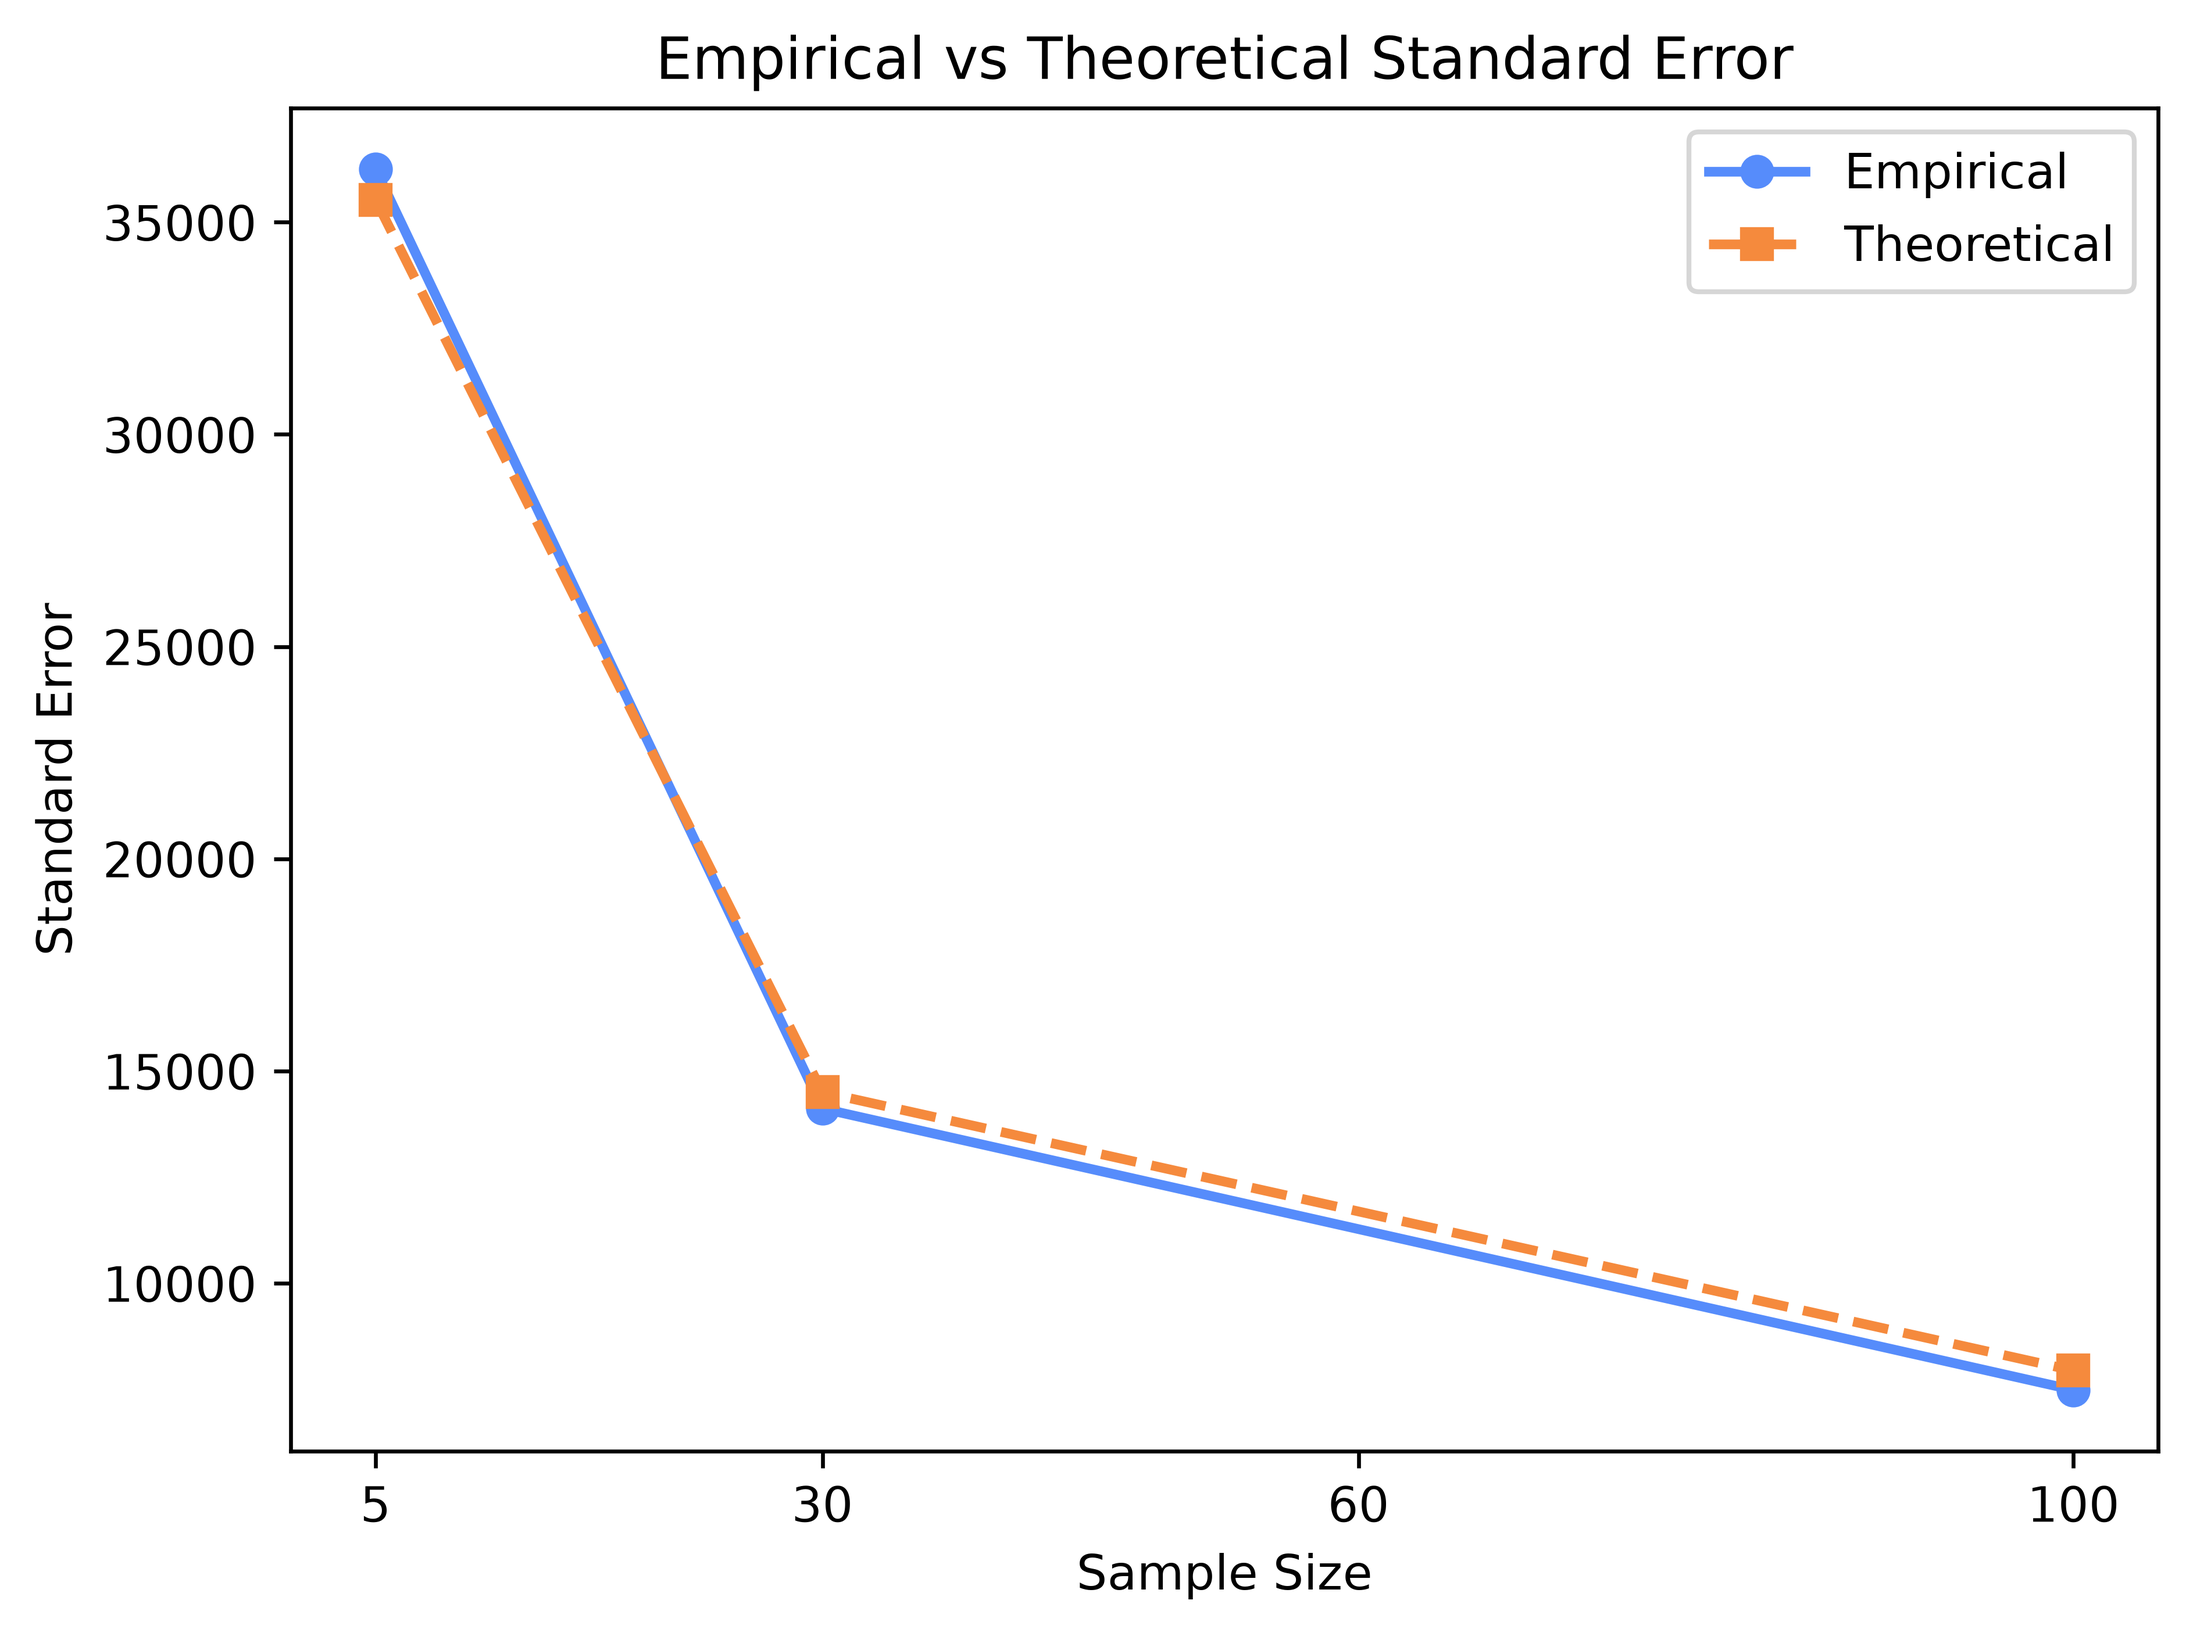
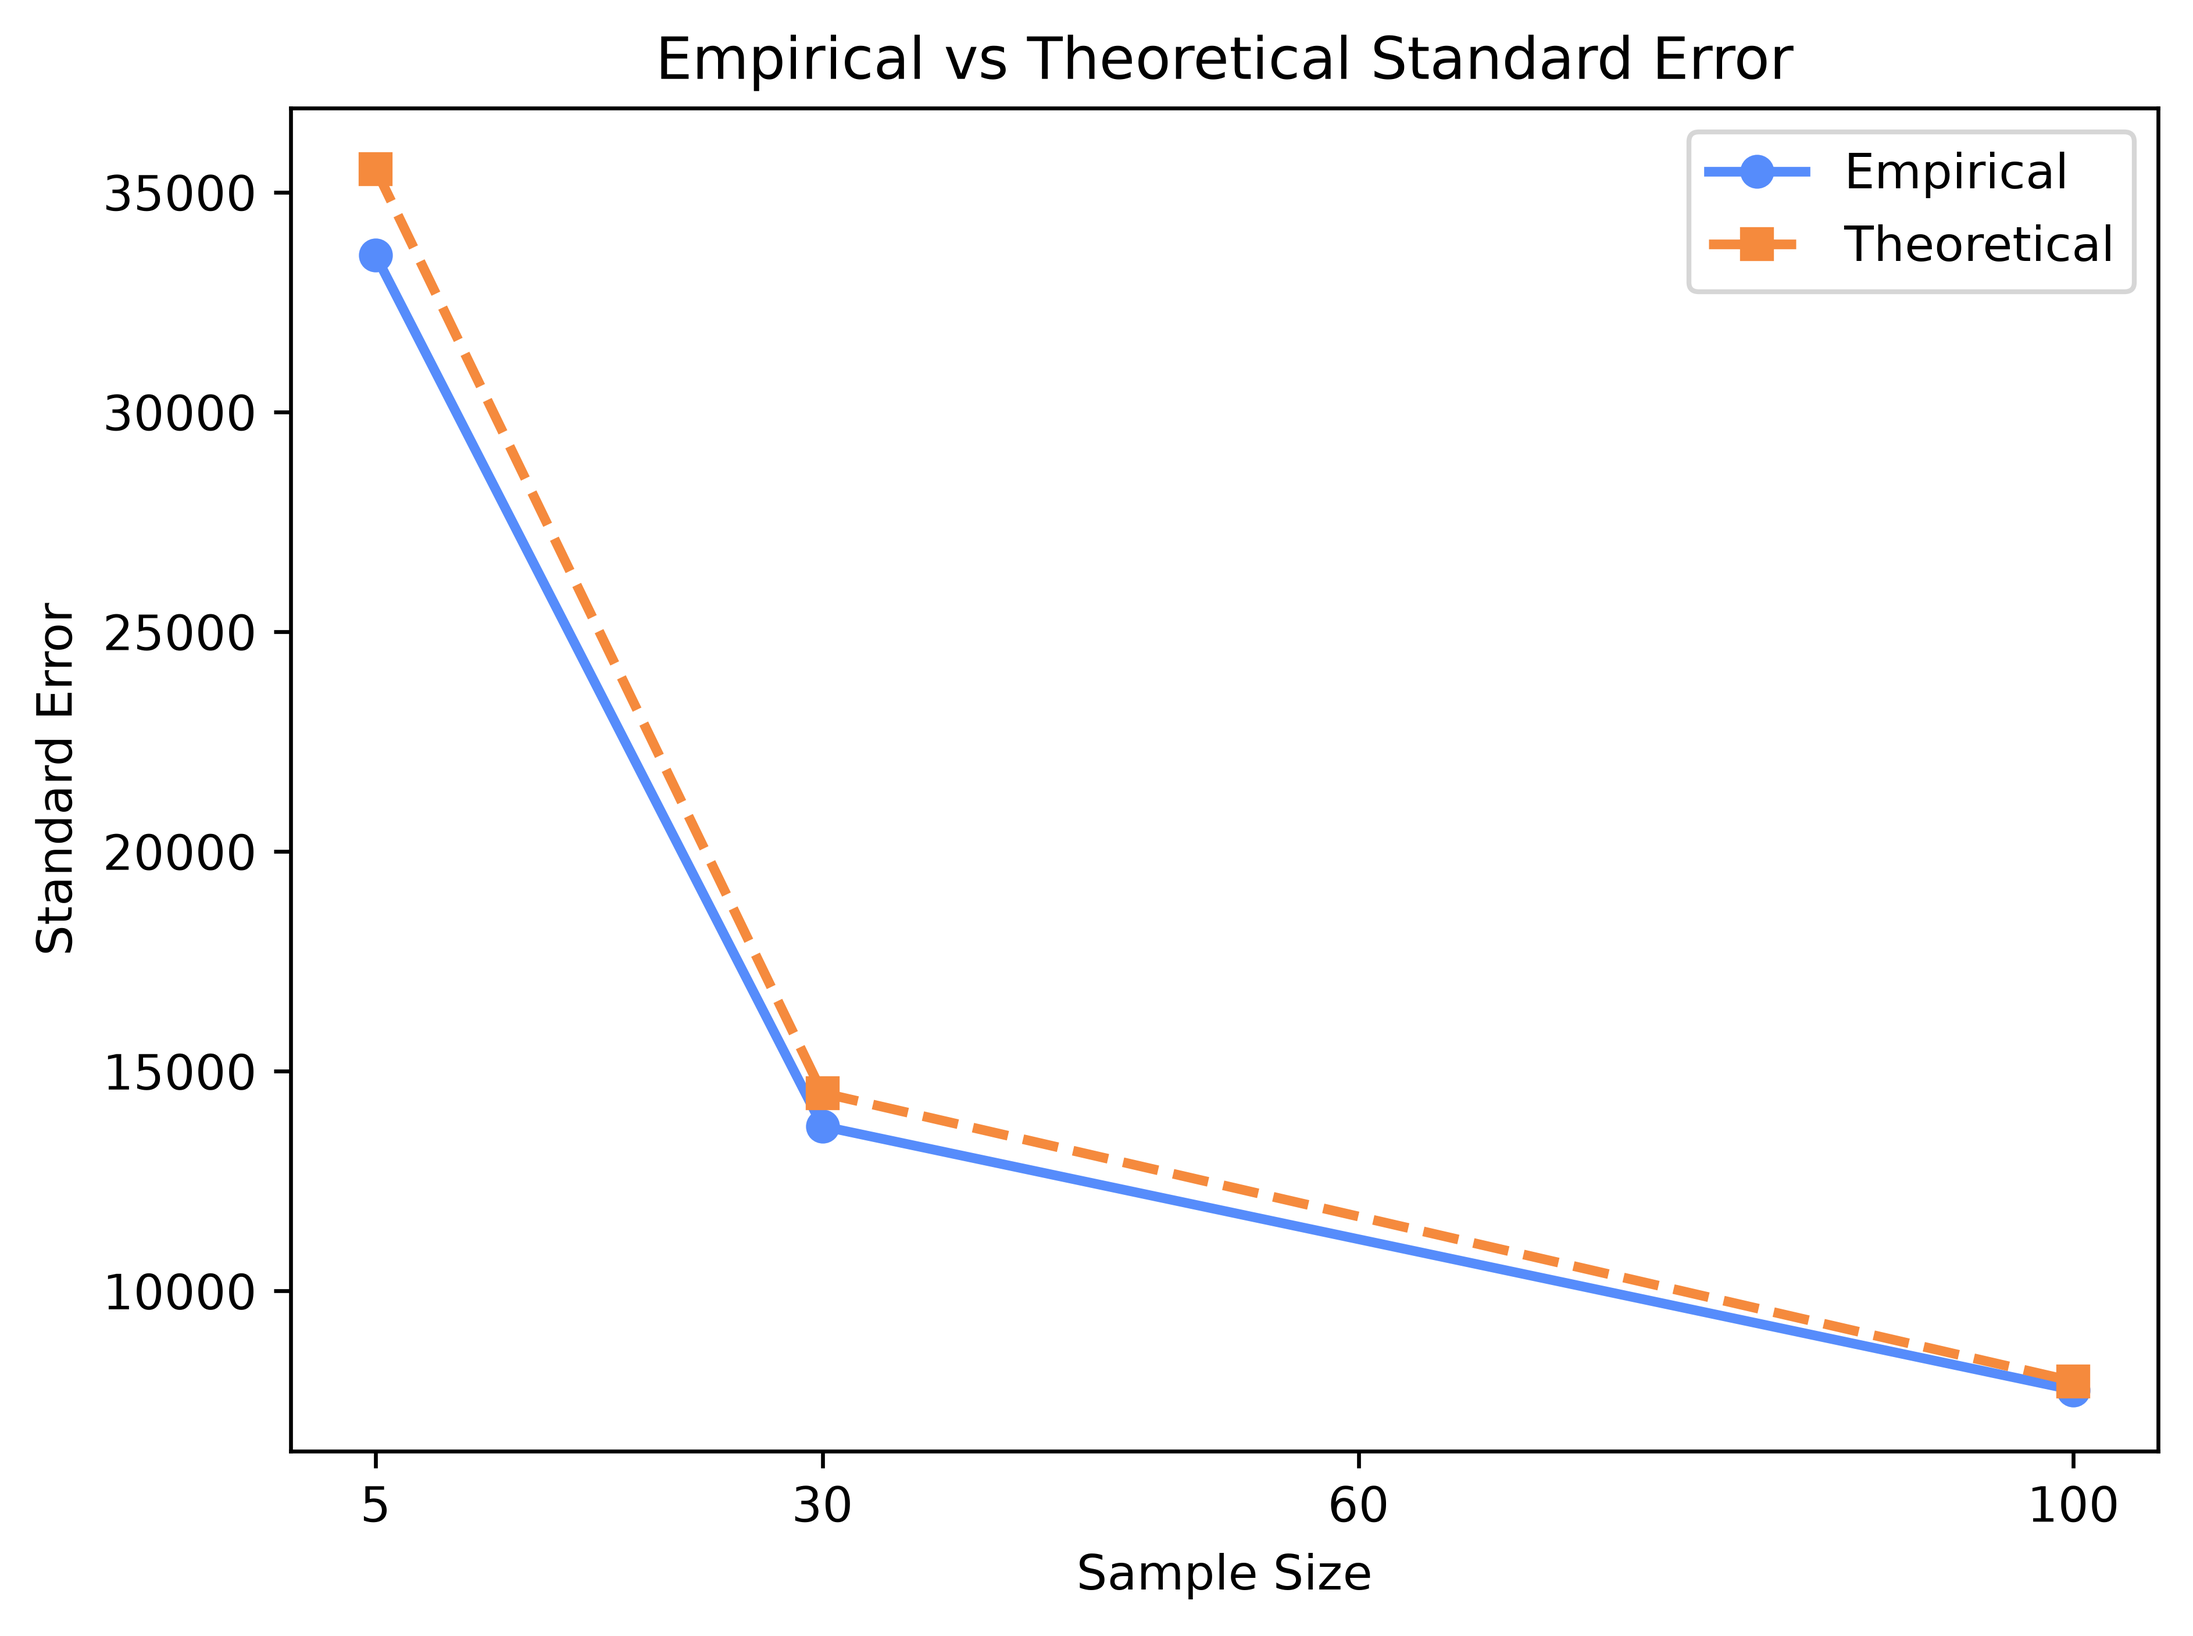
Add bootstrap analysis to 02_data_and_sampling_distributions.ipynb
- Implement bootstrap resampling for estimating the sampling distribution of the median `SalePrice` (10,000 resamples).
- Compute and report bootstrap bias, standard error, and 95% confidence interval for the median.
- Add visualization of the bootstrap distribution with publication-quality settings.
- Update README.md to include bootstrap methodology, results, and the new figure.

diff --git a/README.md b/README.md
@@ -6,7 +6,7 @@ A multi-notebook project on statistics and machine learning, built around the Am
 
 ## Project Status
 
-**Work in progress.** This project is being built as a series of notebooks that walk through statistics and machine learning from first principles, each layering on the previous one. Notebooks `01` and `02` are complete; the following four are planned:
+**Work in progress.** This project is being built as a series of notebooks that walk through statistics and machine learning from first principles, each layering on the previous one. Notebook `01` is complete and `02` is in progress; the following four are planned:
 
 | Notebook                             | Focus                                                     | Status   |
 |--------------------------------------|-----------------------------------------------------------|----------|
@@ -33,6 +33,10 @@ A multi-notebook project on statistics and machine learning, built around the Am
 - **Empirical standard error matches the theoretical `s/√n`.** For each of `n ∈ {5, 30, 100}`, the standard deviation of 1,000 simulated sample means sits on top of the theoretical curve, confirming the simulation reproduces the analytical result.
 - **Standard error shrinks with sample size, as expected.** Larger `n` gives a smaller SE, which is why the histograms for `Mean of 30` and `Mean of 100` are visibly narrower than `Mean of 5` (or the raw data).
 - **Small Monte Carlo gaps are unavoidable.** Each empirical SE is itself an estimate built from 1,000 simulated means, so it differs from theory by a small random amount. Pushing the simulation count to 10,000 or 100,000 would tighten that agreement further.
+- **The sample median is essentially unbiased for `SalePrice`.** From 10,000 bootstrap resamples of size 1,460, the bootstrap median (\$162,900.11) sits within \$100 of the observed median (\$163,000), giving a bias of −0.06%, which is well within sampling noise.
+- **The bootstrap SE of the median is ≈ \$2,364.** This is the standard deviation of the bootstrap distribution, used as a Monte Carlo estimate of the standard error of the median (no closed-form SE exists for the sample median).
+- **The 95% bootstrap percentile CI for the median is \$158,900 – \$167,700.** Taken from the 2.5th and 97.5th percentiles of the 10,000 bootstrap medians, this gives a non-parametric uncertainty band for the central price level.
+- **The bootstrap distribution is multimodal.** The histogram of bootstrap medians shows several distinct peaks rather than a smooth bell curve, which is expected — the median is a discrete statistic on dollar values, so many bootstrap samples produce identical medians.
 
 ## Mathematical Concepts Implemented
 
@@ -55,6 +59,11 @@ A multi-notebook project on statistics and machine learning, built around the Am
 - **Theoretical standard error** — `s/√n` with `s` taken as the sample standard deviation of the raw `SalePrice` column.
 - **Empirical vs. theoretical SE comparison** — line plot overlaying both curves over the same *n* axis, so the simulation can be checked against the analytical result.
 - **Skewness interpretation** — qualitative reading of histogram shape at each *n* to argue for normality of the sampling distribution even when the underlying data is strongly skewed.
+- **Bootstrap resampling** — `R = 10,000` samples of size `n = 1,460` drawn with replacement from the observed `SalePrice` column, used to estimate the sampling distribution of a statistic (here the median) for which no closed-form standard error exists.
+- **Bootstrap bias** — difference between the mean of the bootstrap distribution and the observed statistic, computed and reported in dollars to quantify estimator bias relative to the scale of the data.
+- **Bootstrap standard error** — the standard deviation of the 10,000 bootstrap medians, used as a Monte Carlo standard error for the sample median.
+- **Percentile bootstrap confidence interval** — the 2.5th and 97.5th percentiles of the bootstrap distribution taken as the lower and upper bounds of a 95% CI for the median.
+- **Distribution shape interpretation** — explaining the multimodal bootstrap histogram as a consequence of the discrete dollar values of `SalePrice` (many bootstrap samples produce identical medians), rather than treating it as a violation of normality.
 
 ## Few Visualizations
 
@@ -73,6 +82,7 @@ A multi-notebook project on statistics and machine learning, built around the Am
 |                                                                                                                                                |                                                                                                                                                |
 |------------------------------------------------------------------------------------------------------------------------------------------------|------------------------------------------------------------------------------------------------------------------------------------------------|
 | ![Sampling Distributions of the Mean](figures/02_data_and_sampling_distributions/SamplingDistribution.png)                                     | ![Empirical vs Theoretical Standard Error](figures/02_data_and_sampling_distributions/EmpiricalvsTheoreticalSE.png)                           |
+| ![Bootstrap Distribution of SalePrice Median](figures/02_data_and_sampling_distributions/BootstrapDistributionOfSalePriceMedian.png)          |                                                                                                                                                |
 
 ## How to Run
 
@@ -94,9 +104,11 @@ Run the cells top to bottom. The dataset is fetched automatically via `sklearn.d
 
 **Outputs of notebook 02:**
 
-- `figures/02_data_and_sampling_distributions/` — 2 publication-quality PNGs:
+- `figures/02_data_and_sampling_distributions/` — 3 publication-quality PNGs:
   - `SamplingDistribution.png` — facet grid of the raw data and the sampling distribution of the mean for *n* = 5, 30, 100.
   - `EmpiricalvsTheoreticalSE.png` — empirical SE (from 1,000 simulated means) plotted against the theoretical `σ/√n` curve.
+  - `BootstrapDistributionOfSalePriceMedian.png` — histogram of 10,000 bootstrap medians with the observed median marked.
+- Stdout — the bootstrap analysis also prints the original median, bootstrap median, bias, bootstrap SE, and the 95% percentile CI.
 
 ## Dataset
 
@@ -108,6 +120,7 @@ The **Ames Housing dataset** describes residential property sales in Ames, Iowa 
 - **Descriptive & inferential statistics** applied and interpreted, not just computed
 - **Distribution diagnostics** and transformation (skewness, log transform)
 - **Monte Carlo simulation** of sampling distributions and **empirical estimation of standard error**
+- **Bootstrap resampling** for statistics with no closed-form standard error (here, the median), including bootstrap bias, SE, and percentile confidence intervals
 - **Empirical vs. theoretical model checking** — comparing a simulation result against the analytical `σ/√n` curve
 - **Feature selection** by correlation strength and by covering distinct property domains (location, design, transaction, zoning)
 - **Data visualization** with matplotlib and seaborn (histograms, boxplots, KDE, heatmaps, annotated scatter, hexbin, contour, violin, facet grids, and line plots)
